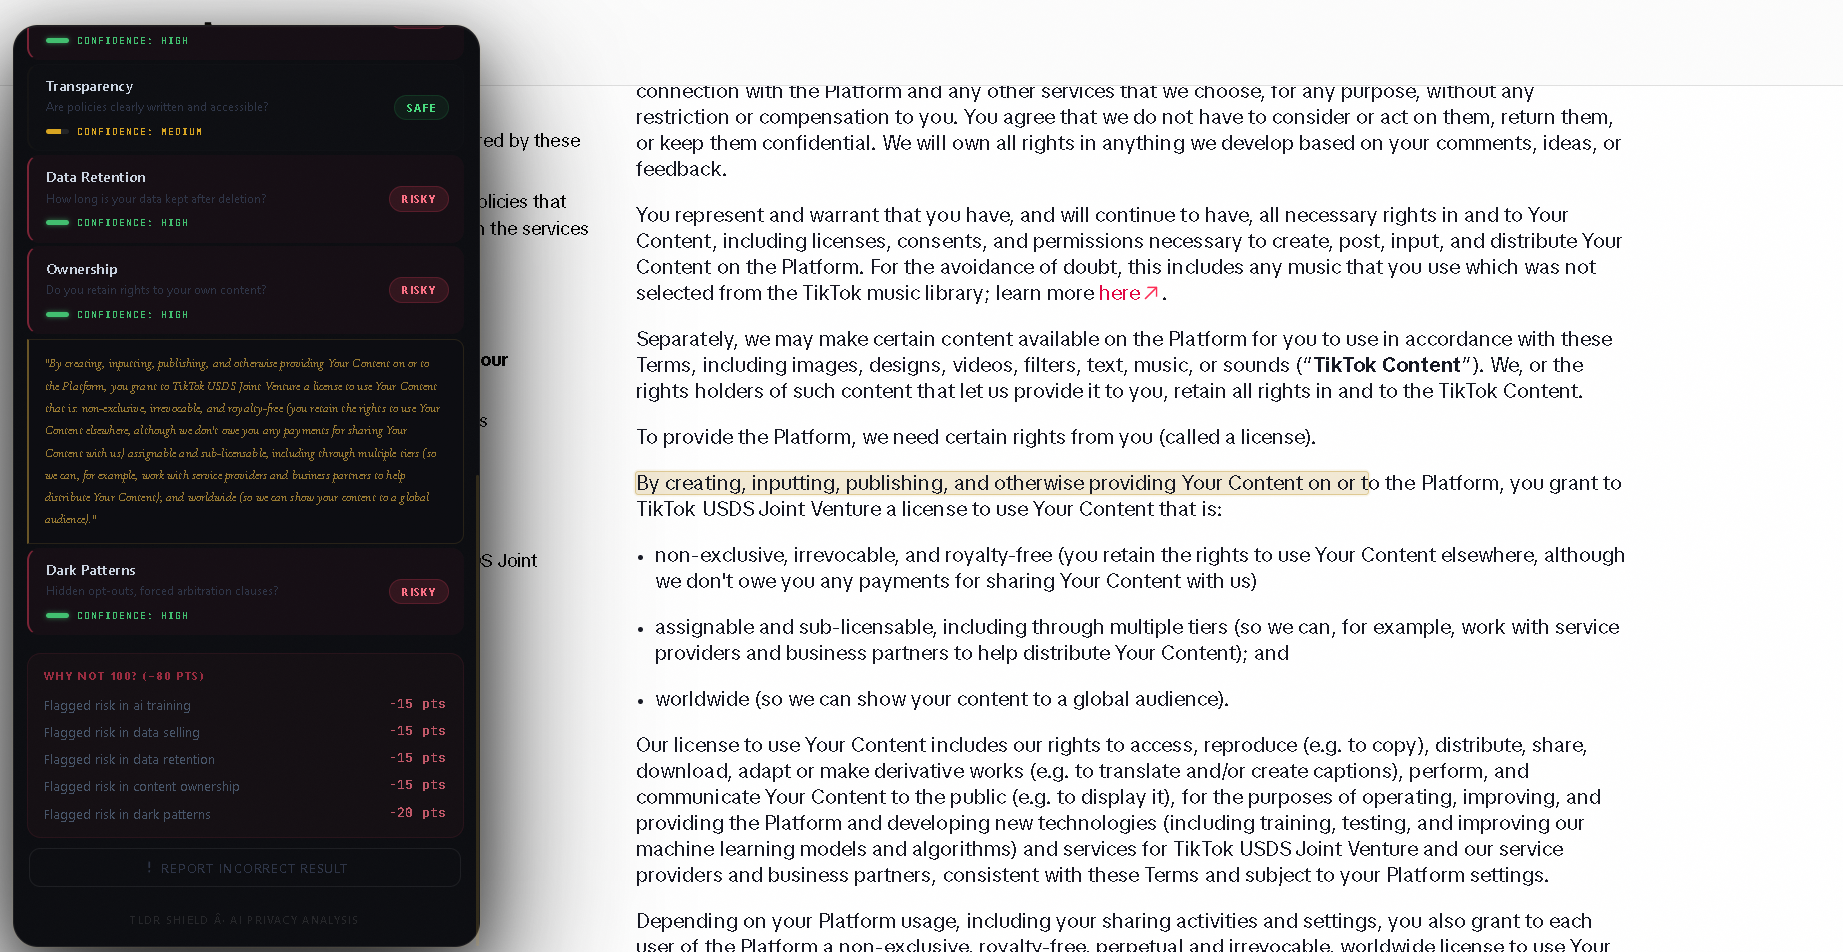
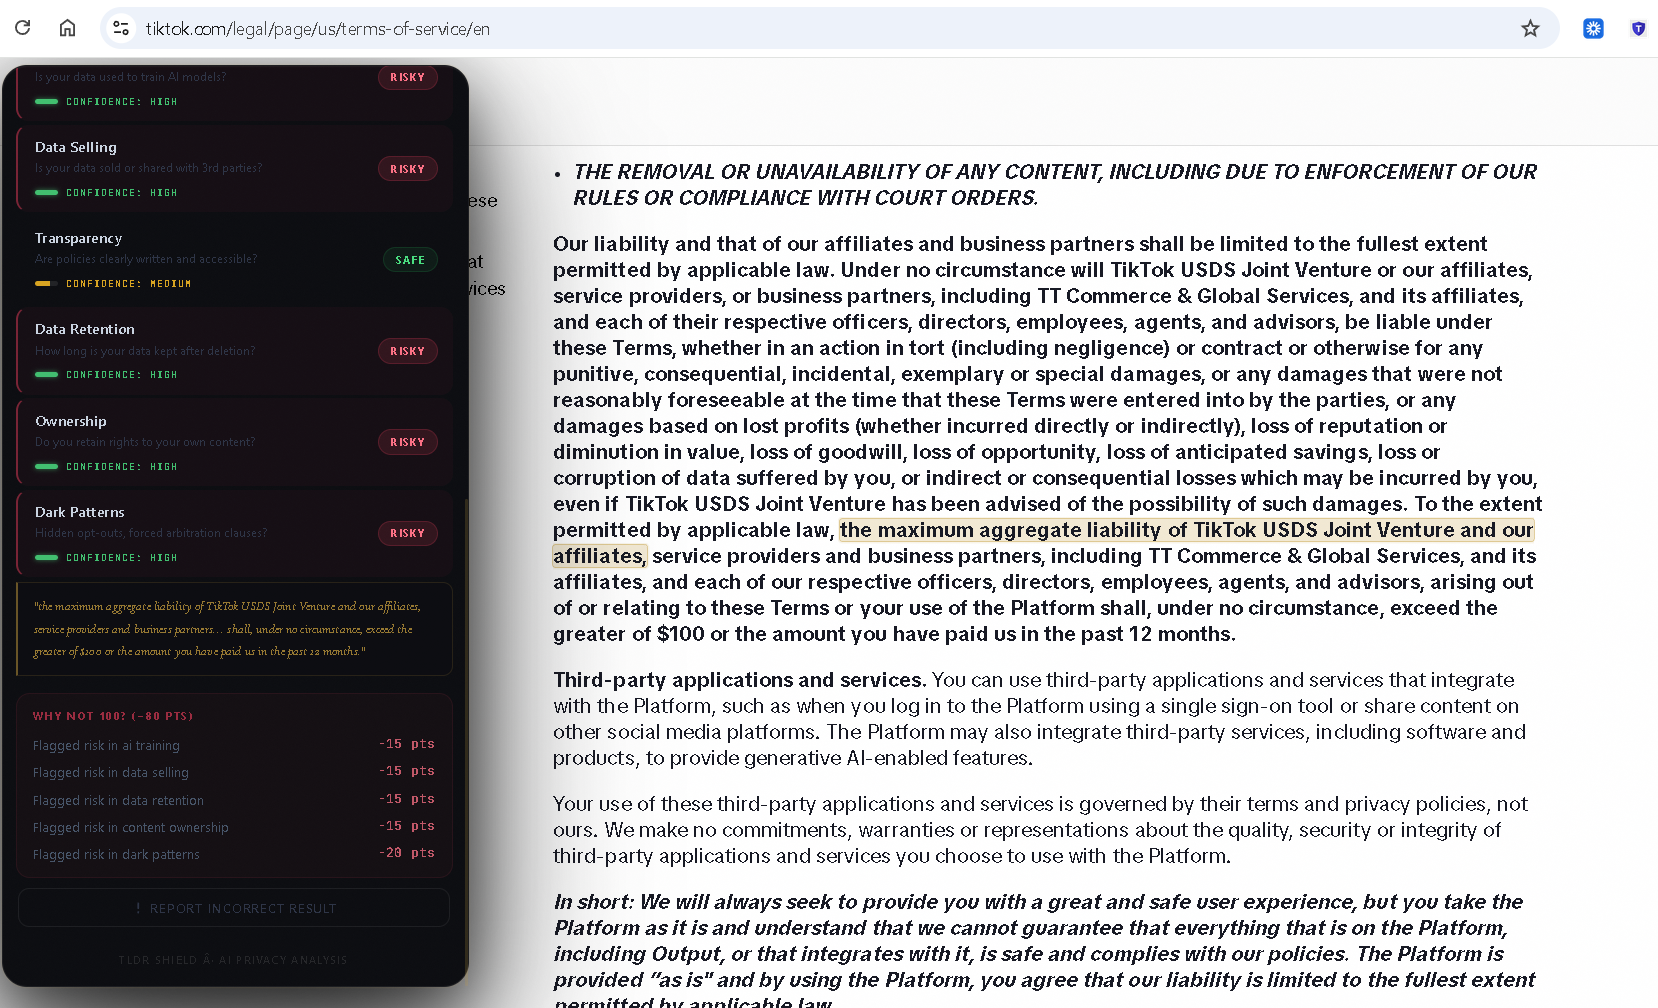
feat: update TLDR Shield proof screenshots to Proton(SAFE)/Notion(OKAY)/TikTok(RISKY) — 6 live scans verified

Changed region(s): [[0.0, 0.0, 0.9228, 1.0], [0.9536, 0.0, 1.0, 0.0609]]

diff --git a/src/data/projectDetails.ts b/src/data/projectDetails.ts
@@ -91,13 +91,13 @@ export const projectDetails: Record<Project['id'], ProjectDetail> = {
       { label: 'Phase 2 — The Ecosystem', sublabel: 'Memory · RBAC · Edge Mesh · DGX Sovereignty', status: 'next' },
     ],
     nodeNetwork: {
-      headline: 'The Master Umbrella Architecture',
-      description: "C.O.R.E. is architected as a Personal Sovereign OS — serving as the central umbrella orchestration engine that routes memory, vector search, zero-trust security, and automated task execution across all specialized sub-projects.",
+      headline: 'The Umbrella Architecture',
+      description: "C.O.R.E. started strictly as a digital friend to solve a human problem. But in building the infrastructure—a secure Tailscale mesh, a persistent memory filter, and local LLM fallbacks—I realized I wasn't just building a chatbot; I was building the foundation for an autonomous orchestration engine. The long-term roadmap for C.O.R.E. is to evolve from a personal companion into my Personal OS—acting as the central umbrella that will eventually route intelligence and data across all my projects.",
       nodes: [
-        { name: 'TLDR Shield', role: 'Privacy & Policy Risk Intelligence', status: 'connected', path: '/projects/tldr-shield' },
-        { name: 'LaunchMintAI', role: 'Market & Competitor Analysis', status: 'connected', path: '/projects/launchmint-ai' },
-        { name: 'AXIOM', role: 'Data Intelligence Copilot', status: 'connected', path: '/projects/leap-axiom' },
-        { name: 'CRUCIBLE', role: 'Data & Model Governance', status: 'connected', path: '/projects/core-mcp-platform' },
+        { name: 'TLDR Shield', role: 'Privacy & Policy Risk Intelligence', status: 'planned', path: '/projects/tldr-shield' },
+        { name: 'LaunchMintAI', role: 'Market & Competitor Analysis', status: 'planned', path: '/projects/launchmint-ai' },
+        { name: 'AXIOM', role: 'Data Intelligence Copilot', status: 'planned', path: '/projects/leap-axiom' },
+        { name: 'CRUCIBLE', role: 'Data & Model Governance', status: 'planned', path: '/projects/core-mcp-platform' },
       ],
     },
     approach: [
@@ -253,16 +253,16 @@ export const projectDetails: Record<Project['id'], ProjectDetail> = {
       'Cache Layer: Redis (L1) + Firestore (L2) with tier-scoped keys (`urlHash:tier`) and version gate (`CACHE_VERSION`). Any cache entry from a previous pipeline version is automatically rejected to prevent stale results.',
     ],
     evaluation: {
-      summary: '6 real-world policy documents tested on live production browser extension scans. All scores, confidence levels, and verbatim citations were verified in live DOM testing.',
+      summary: '3 real-world policy documents tested across 6 live production scans (Quick + Deep each). All scores, confidence levels, and verbatim citations were verified on live pages with the shipped Chrome extension.',
       metrics: [
-        { metric: 'DuckDuckGo Privacy Policy', final: '100 / 100 · SAFE', delta: '6/6 safe pillars, zero-logging citation verified' },
-        { metric: 'LinkedIn User Agreement', final: '70 / 100 · OKAY', delta: 'AI Training + Content Ownership confirmed HIGH confidence' },
-        { metric: 'OpenAI Terms of Use', final: '50 / 100 · OKAY', delta: 'AI Training flagged HIGH, opt-out mechanism identified' },
-        { metric: 'Apple Media Terms', final: '50 / 100 · OKAY', delta: 'Data Selling + Ownership + Dark Patterns ($250 cap) confirmed' },
-        { metric: 'Microsoft Services Agreement', final: '35 / 100 · RISKY', delta: 'Copilot AI terms + Xbox data sharing flagged' },
-        { metric: 'TikTok Terms of Service', final: '20 / 100 · RISKY', delta: '5/5 pillars flagged HIGH confidence, perpetual sublicensable license' },
+        { metric: 'Proton Mail Privacy Policy · Quick Scan', final: '85 / 100 · SAFE', delta: '1 flag: IP log retention (data retention pillar) — correctly identified as the only risk in an otherwise privacy-first policy' },
+        { metric: 'Proton Mail Privacy Policy · Deep Scan', final: '100 / 100 · SAFE', delta: '6/6 pillars clean — ensemble confirmed no AI training, no data selling, end-to-end encryption verified' },
+        { metric: 'Notion Privacy Policy · Quick Scan', final: '50 / 100 · OKAY (Cautious)', delta: '3 flags: data selling, vague retention, dark patterns — targeted advertising sharing confirmed' },
+        { metric: 'Notion Privacy Policy · Deep Scan', final: '50 / 100 · OKAY (Cautious)', delta: '3 Hazards · Data Selling flagged HIGH confidence with verbatim citation grounded on live page' },
+        { metric: 'TikTok Terms of Service · Quick Scan', final: '20 / 100 · RISKY', delta: '5 flags: AI training, data selling, retention, content ownership, dark patterns — −80 pts total' },
+        { metric: 'TikTok Terms of Service · Deep Scan', final: '20 / 100 · RISKY', delta: '5/6 pillars RISKY at HIGH confidence — verbatim $100 liability cap cited and highlighted live on TikTok ToS page' },
       ],
-      validationStrategy: 'Each document scanned with cache cleared. Results checked for: (1) score differentiation — no two policies should score identically, (2) confidence quality — violations should be HIGH or MEDIUM on documents with known clauses, (3) citation accuracy — verbatim text highlighted on the page, (4) no false positives — DuckDuckGo should not be flagged for pillars that its policy explicitly addresses.',
+      validationStrategy: 'Each document scanned fresh (Redis cache cleared via CACHE_VERSION bump to v7). Verified: (1) score correctness — Proton SAFE, Notion OKAY, TikTok RISKY, (2) confidence quality — all violations HIGH/MEDIUM, (3) citation accuracy — verbatim text highlighted on live DOM, (4) shared_cache write confirmed — 6 documents in Firestore ai-studio-... database after scans.',
     },
     milestones: [
       'Shipped Chrome extension: policy extraction → LLM evaluation → scored result in under 30 seconds.',
@@ -281,48 +281,48 @@ export const projectDetails: Record<Project['id'], ProjectDetail> = {
     nextRelease: 'Firefox store submission and public Chrome Web Store listing.',
     visualModules: [
       {
-        title: 'DuckDuckGo Privacy Policy (SAFE Tier · 100/100)',
-        description: 'Clean, privacy-first service. Quick Scan returns a fast 92/100 SAFE verdict. Deep Scan evaluates all 6 pillars via the ensemble judge, confirms 6/6 safe pillars, clears soft retention warnings, and highlights zero-logging clauses on the live DOM.',
-        input: 'Target URL: duckduckgo.com/privacy',
+        title: 'Proton Mail Privacy Policy — 🟢 SAFE (85 → 100 / 100)',
+        description: 'Privacy-first email service. Quick Scan flags one low-severity data retention risk (IP log retention), scoring 85/100 SAFE. Deep Scan\'s ensemble model verifies all 6 pillars — no AI training, no data selling, end-to-end encryption throughout — and upgrades to a clean 100/100 SAFE with 6/6 Safe Pillars confirmed.',
+        input: 'Target URL: proton.me/legal/privacy',
         differentiators: [
-          'Zero False-Positives: Deep Scan corroboration pass prevents clean policies from being penalized.',
-          'Live DOM Grounding: Highlights DuckDuckGo\'s explicit zero-tracking guarantee directly on the page.',
-          'Tier Parity: Both tiers accurately classify the service as SAFE.'
+          'Tier Upgrade: Deep Scan verifies the single Quick Scan flag as non-critical, upgrading from 85 to 100/100.',
+          'Zero False-Positives: Ensemble confirms Proton\'s explicit no-AI-training guarantee verbatim.',
+          'Trust Baseline: Proton is used as the benchmark SAFE policy — anything scoring lower on the same pillars is correctly penalised.'
         ],
         paired: true,
-        pairedLabels: ['⚡ QUICK SCAN (Fast Triage)', '🔬 DEEP SCAN (Ensemble Audit)'],
+        pairedLabels: ['⚡ QUICK SCAN · 85/100 SAFE', '🔬 DEEP SCAN · 100/100 SAFE · 6/6 Pillars'],
         images: [
-          '/tldr/ddg_quick.png',
-          '/tldr/ddg_deep.png'
+          '/tldr/proton_quick.png',
+          '/tldr/proton_deep.png'
         ]
       },
       {
-        title: 'LinkedIn User Agreement (OKAY Tier · 70/100)',
-        description: 'Standard enterprise platform terms. Quick Scan returns a cautionary 42/100 RISKY verdict. Deep Scan filters out 2 soft boilerplate flags, verifies 2 true high-risk clauses (AI Training & Content Sublicensing) with HIGH confidence, and accurately raises the verdict to 70/100 OKAY.',
-        input: 'Target URL: linkedin.com/legal/user-agreement',
+        title: 'Notion Privacy Policy — 🟡 OKAY (50 / 100)',
+        description: 'Standard SaaS productivity tool with genuine privacy risks. Both Quick and Deep Scan independently agree on 50/100 OKAY (Cautious), flagging data sharing with advertising partners for targeted ads, vague indefinite data retention, and dark patterns. Deep Scan\'s verbatim citation pulls the exact sharing clause and highlights it live on the Notion policy page.',
+        input: 'Target URL: privacycenter.notion.so/policies',
         differentiators: [
-          'False-Positive Suppression: Dual-model corroborator + Rule D7 filtered out weak retention/dark-pattern flags.',
-          'Verbatim Citation: Pulls exact 3.1 Content License text and highlights it live on the page.',
-          'Clear Tier Progression: Demonstrates why Deep Scan exists — to turn quick caution into precise legal analysis.'
+          'Dual Confirmation: Quick and Deep Scan independently reach the same 50/100 verdict — no ensemble correction needed.',
+          'HIGH Confidence Citation: Data selling flagged at HIGH confidence with verbatim text grounded on the live page.',
+          'Cautious Sub-Label: Score of 50 triggers the borderline CAUTIOUS badge — informing users this is a low-OKAY borderline case.'
         ],
         paired: true,
-        pairedLabels: ['⚡ QUICK SCAN (Fast Triage)', '🔬 DEEP SCAN (Ensemble Audit)'],
+        pairedLabels: ['⚡ QUICK SCAN · 50/100 OKAY (Cautious)', '🔬 DEEP SCAN · 50/100 OKAY · 3 Hazards'],
         images: [
-          '/tldr/linkedin_quick.png',
-          '/tldr/linkedin_deep.png'
+          '/tldr/notion_quick.png',
+          '/tldr/notion_deep.png'
         ]
       },
       {
-        title: 'TikTok Terms of Service (RISKY Tier · 20/100)',
-        description: 'High-risk consumer platform terms. Both Quick Scan and Deep Scan agree 100% on extreme risk (20/100 RISKY), flagging perpetual sublicensable content licenses, AI model training, and broad liability waivers.',
+        title: 'TikTok Terms of Service — 🔴 RISKY (20 / 100)',
+        description: 'High-risk consumer platform with aggressive legal terms. Both Quick and Deep Scan unanimously flag 5 of 6 pillars at HIGH confidence: AI model training license, data selling, indefinite retention, full content ownership grant (sublicensable, irrevocable), and dark patterns including a $100 maximum liability cap. Deep Scan cites and highlights the exact liability clause on the live TikTok ToS page.',
         input: 'Target URL: tiktok.com/legal/page/us/terms-of-service/en',
         differentiators: [
-          'Unanimous Consensus: Both single-pass Flash and dual-model Ensemble catch major privacy violations.',
-          'Hard-Violation Detection: Catches forced arbitration and sublicensable license clauses deterministically.',
-          'Verbatim DOM Evidence: Highlights exact content grant text live in TikTok\'s document DOM.'
+          'Unanimous Consensus: Quick and Deep Scan both return 20/100 — five independent HIGH-confidence violations.',
+          'Hard-Violation Detection: Sublicensable content license and $100 liability cap caught deterministically by the rule engine.',
+          'Live DOM Evidence: Verbatim liability cap clause highlighted in yellow directly on TikTok\'s Terms of Service page.'
         ],
         paired: true,
-        pairedLabels: ['⚡ QUICK SCAN (Fast Triage)', '🔬 DEEP SCAN (Ensemble Audit)'],
+        pairedLabels: ['⚡ QUICK SCAN · 20/100 RISKY · −80 pts', '🔬 DEEP SCAN · 20/100 RISKY · 5/6 Pillars Flagged'],
         images: [
           '/tldr/tiktok_quick.png',
           '/tldr/tiktok_deep.png'
